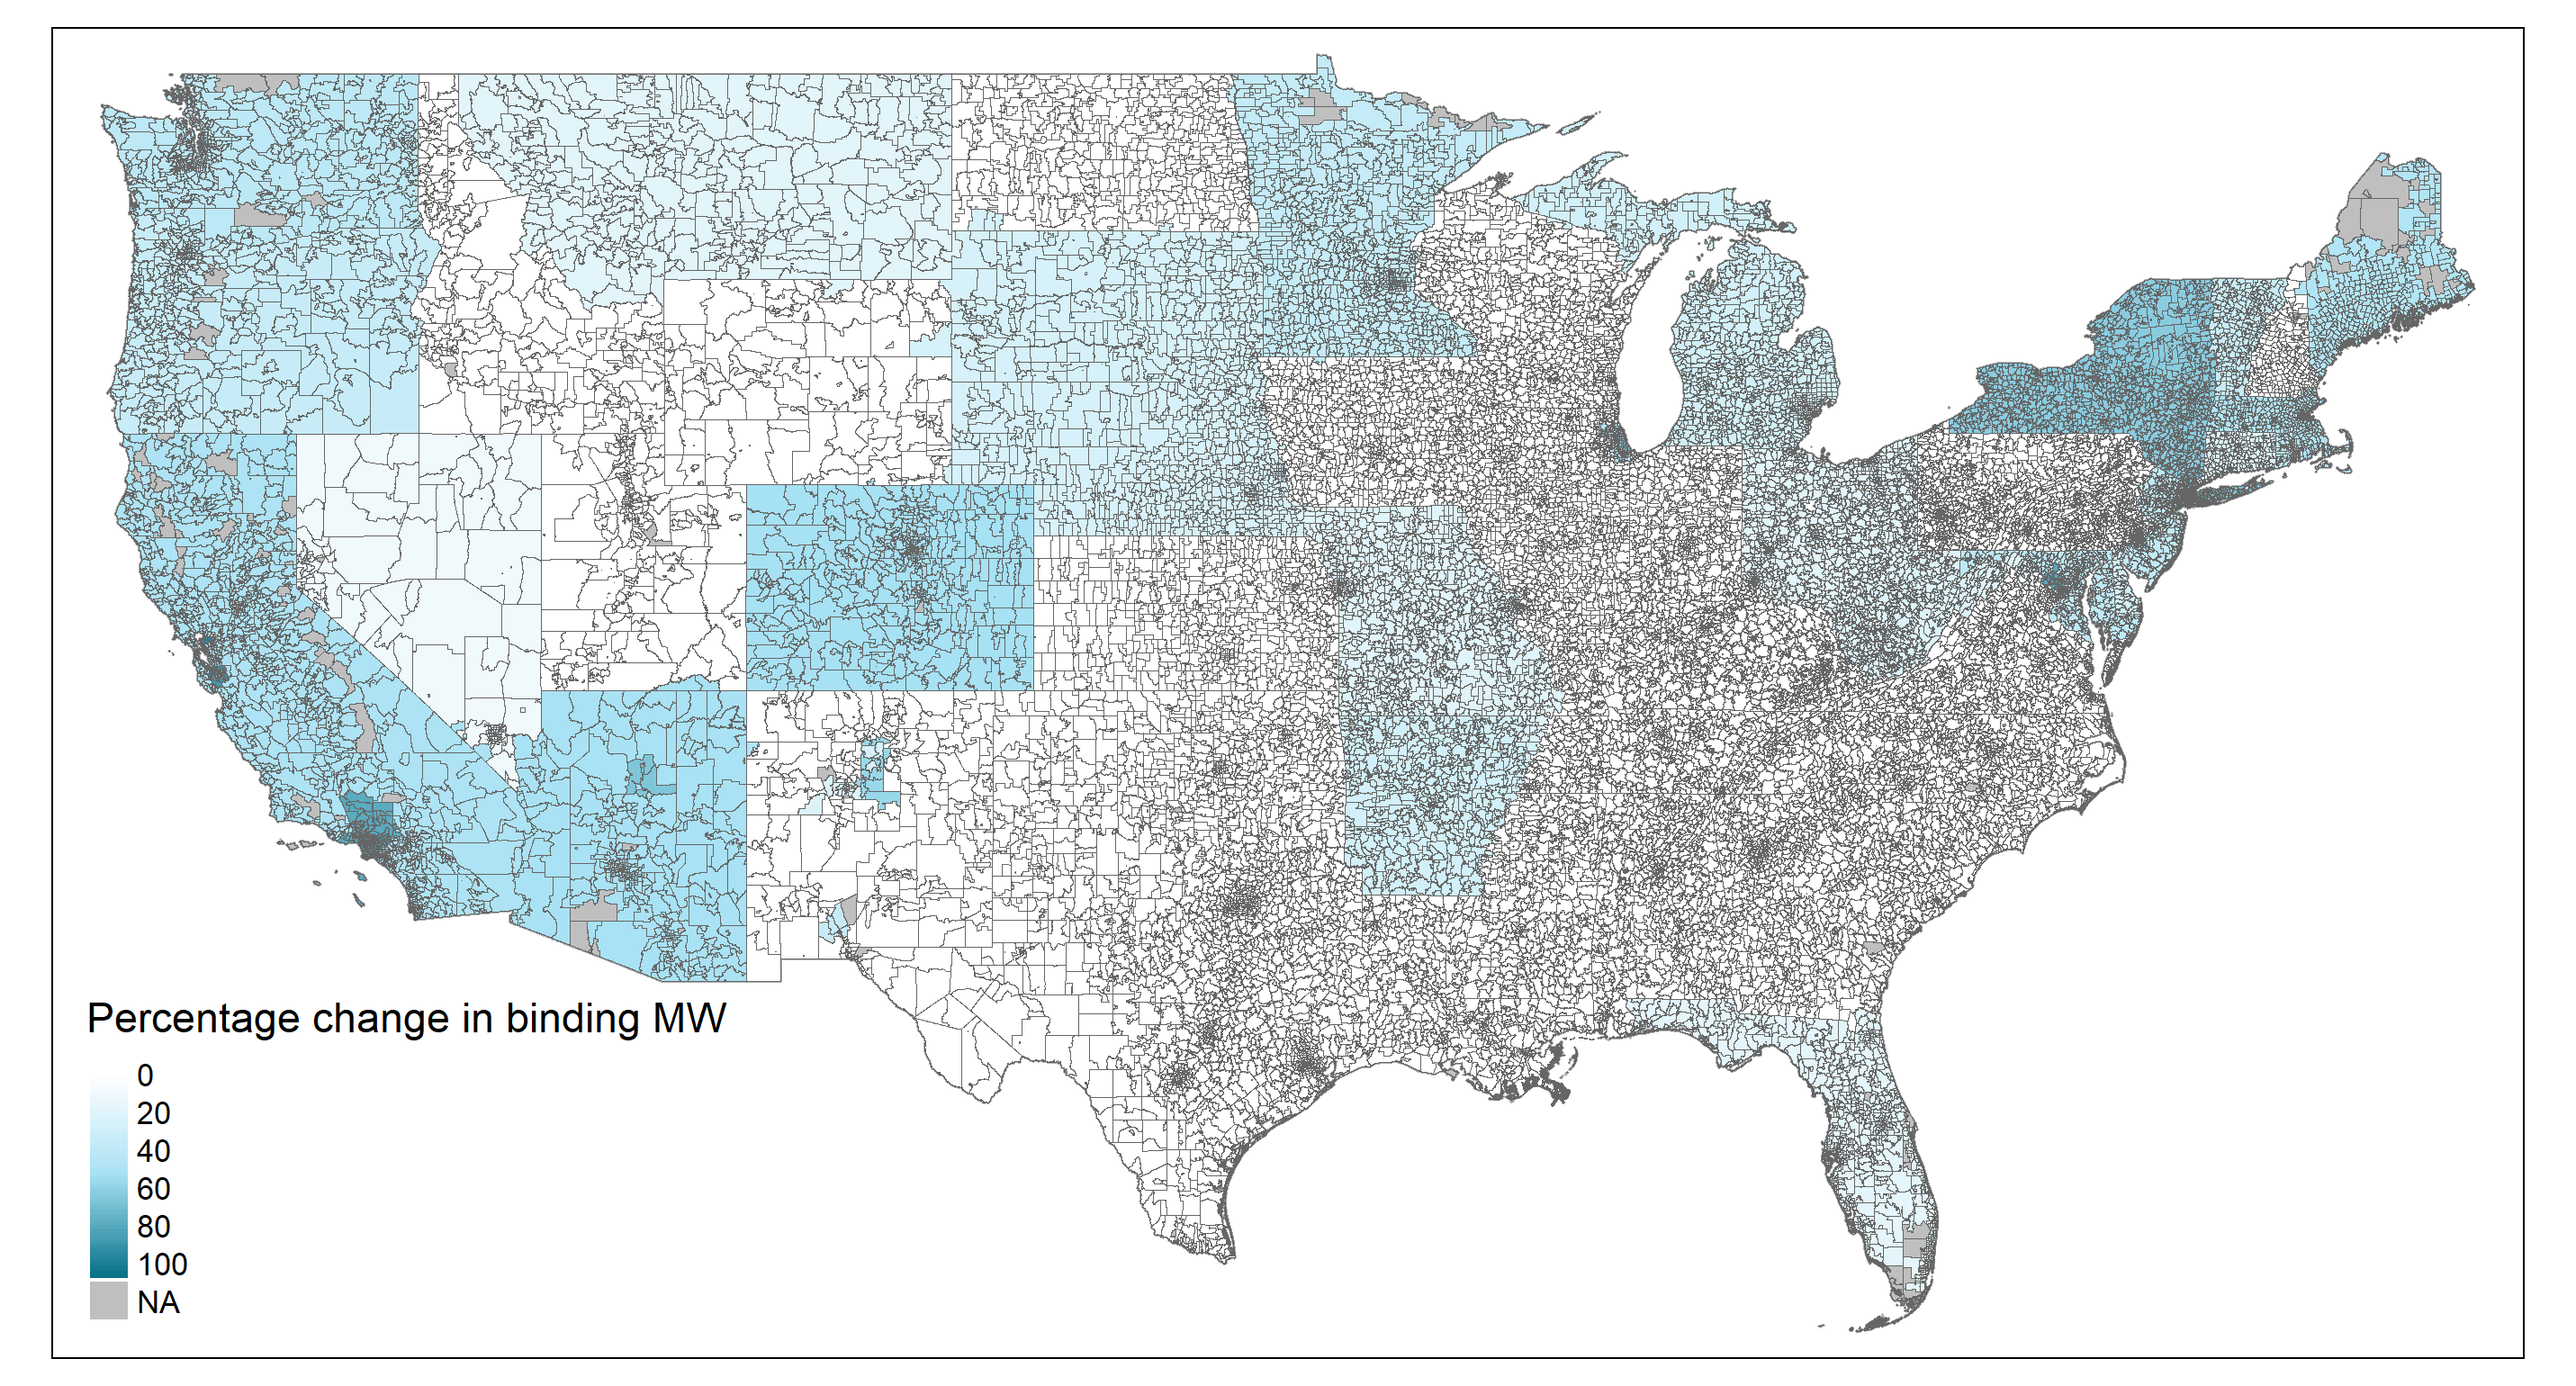
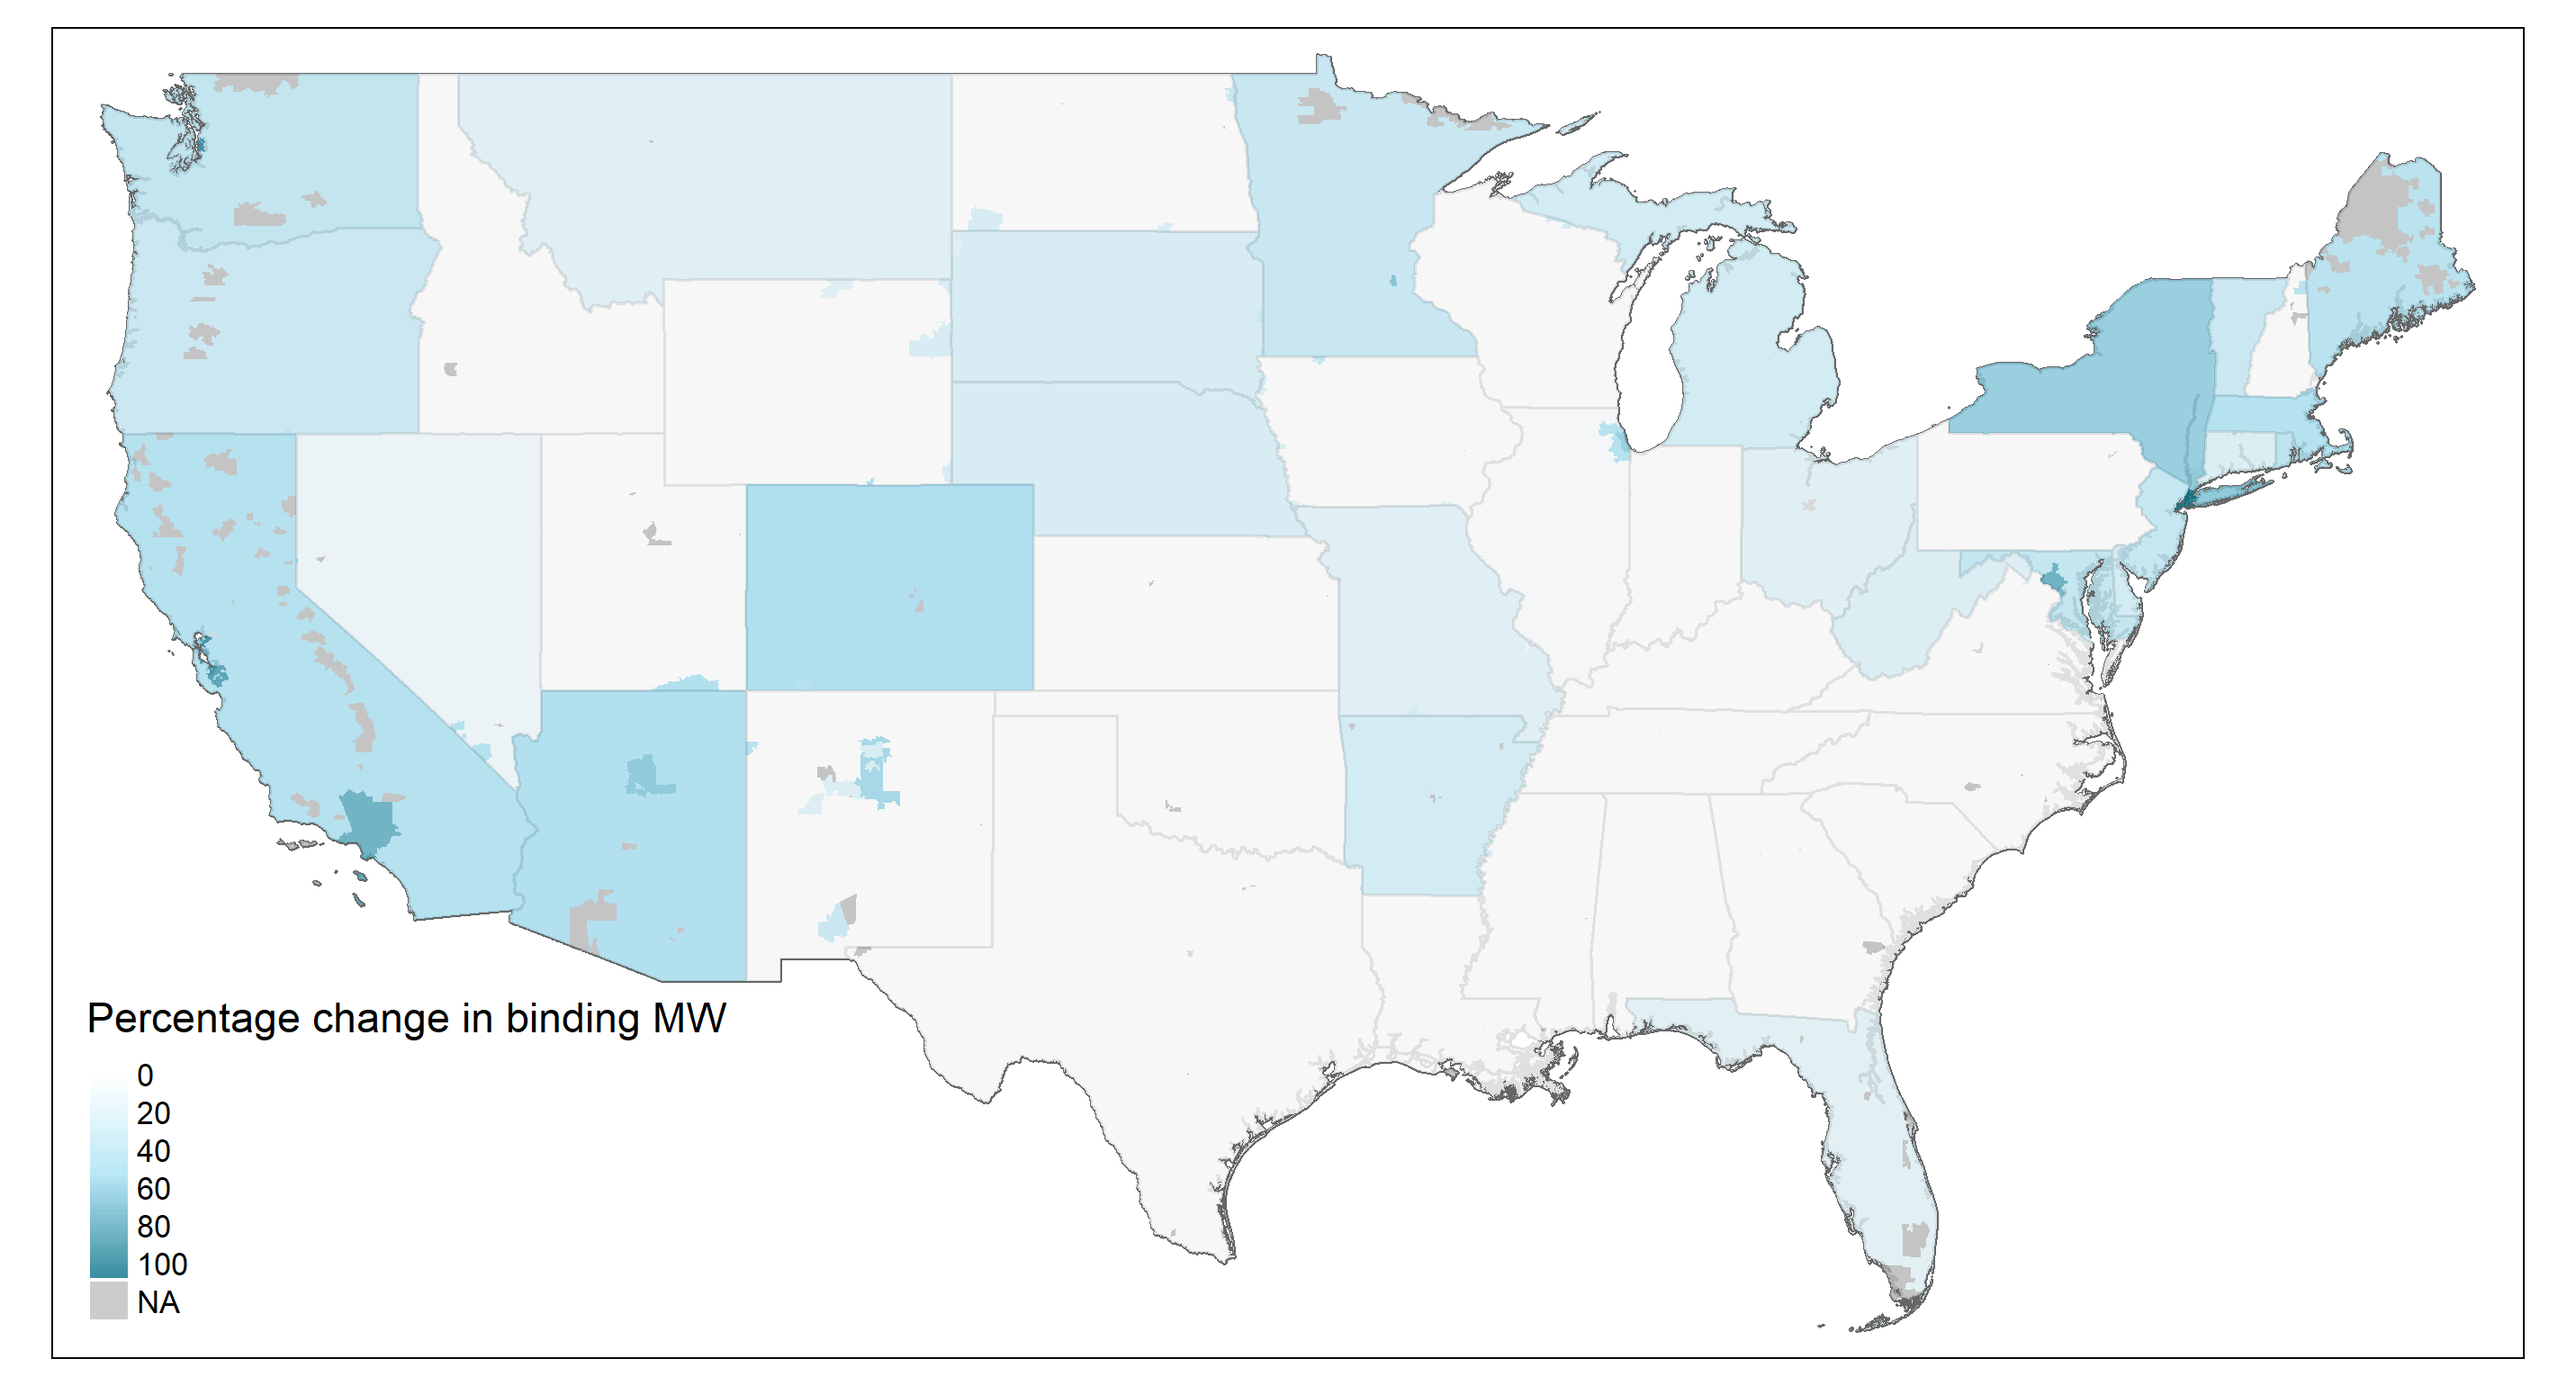
#115  Fix map MW long run, keep going with data_sample.tex

Changed region(s): [[0.0311, 0.0312, 0.964, 0.9351], [0.0311, 0.8416, 0.0622, 0.9351]]

diff --git a/paper_slides/paper/data_sample.tex b/paper_slides/paper/data_sample.tex
@@ -37,14 +37,14 @@ the maximum between the federal, state, county, and city statutory MWs.\footnote
 As a result, we only use MW changes that are binding, meaning that they actually impact 
 that maximum.
 
-When restricting to the sample of ZIP codes available in Zillow, our data reports 18,689 
-MW changes at the ZIP code-month level. These, in turn, arise from 151 state-level and 182 
-county and city-level changes. \autoref{fig:d_ln_mw_dist} shows the distribution of 
-positive increases in our statutory MW variable among all ZIP codes available in the 
-Zillow data.\footnote{There are a few cases of decrease in the MW arising from judicial 
-	decisions overthrowing local MW ordinances. For expository reasons, they are not shown 
-	in the figure. However, they are used in estimations throughout the paper.}
-% DGP: We should make sure this is the case.
+When restricting to the sample of ZIP codes available in Zillow, and to our sample period, 
+our data reports 18,689 MW changes at the ZIP code-month level. These, in turn, arise 
+from 151 state-level and 182 county and city-level changes. Figure \ref{fig:d_ln_mw_dist} 
+shows the distribution of positive increases in our statutory MW variable among all ZIP 
+codes available in the Zillow data.\footnote{There are a few cases of decrease in the 
+	MW arising from judicial decisions overthrowing local MW ordinances. For 
+	expository reasons, they are not shown in the figure. However, they are 
+	used in estimations throughout the paper.} %DGP: We should make sure this is the case.
 Panel (a) shows the distribution of the intensity of our MW changes. The average percent 
 change among Zillow ZIP codes is 5.5\%. %% From unbalanced panel in derived_large
 However, we observe a fair amount of large increases. Our baseline estimation strategy will
@@ -54,8 +54,12 @@ and the majority of them take place later in the panel. This could be problemati
 the timing of entry of ZIP codes into the panel is also concentrated in these months. We 
 construct a balanced sample of ZIP codes to tackle this issue.
 
+When focusing on the entire sample of US ZIP codes, MW changes have been heavily concentrated geographically. Figure \ref{fig:mw_perc_changes_long_run} shows the percentage change in the residential MW levels from January 2010 to December 2019. The largest MW changes happened
+along the West and Northeast regions, although there are substantial changes as well in the 
+Midwest.
+
 We construct an alternative measure to capture the effects of MW policies: the 
-\textit{experienced} MW. This measure aims to account for the fact that workplace location 
+\textit{workplace} MW. This measure aims to account for the fact that workplace location 
 often differs from the residence one. The MW that matters for a given local rental market 
 is the one experienced by the people living in it, and so by tracking where people in 
 each ZIP code work we can get a better sense of the relevant MW there.
@@ -67,9 +71,9 @@ come at the block group level. We aggregate that to construct a ZIP code residen
 matrix where we observe the number of workers for each residence-workplace pair.
 
 We then use the ZIP code residence-workplace matrix to build exposure weights. Denote 
-ZIP codes by $i$ and monthly dates by $t$. Let $\mathds{Z}_i$ be the set of ZIP codes in 
+ZIP codes by $i$ and monthly dates by $t$. Let $\Z_i$ be the set of ZIP codes in 
 which $i$'s residents work (including $i$). We construct the set of weights 
-$\{\omega_{iz}\}_{z \in \mathds{Z}_i}$ as $$\omega_{iz} = \frac{N_{iz}}{N_i} , $$ where 
+$\{\omega_{iz}\}_{z \in \Z_i}$ as $$\omega_{iz} = \frac{N_{iz}}{N_i} , $$ where 
 $N_{iz}$ is the number of workers who reside in ZIP code $i$ and work in $z$, and $N_i$ 
 is the total working-age population of ZIP code $i$.\footnote{The LODES data additionally 
 	reports origin-destination matrices for number of workers 29 years old and younger  
@@ -86,7 +90,7 @@ define the experienced minimum wage measure as
 
 \begin{equation}
 \underline{w}^{\text{exp}}_{it} = 
-\sum_{z \in \mathds{Z}_i} \omega_{iz} \underline{w}_{zt} \ . 
+\sum_{z \in \Z_i} \omega_{iz} \underline{w}_{zt} \ . 
 \end{equation}
 
 The experienced MW of a ZIP code is based on the MWs binding in other ZIP codes 

diff --git a/paper_slides/paper/figures.tex b/paper_slides/paper/figures.tex
@@ -22,3 +22,15 @@
     \end{minipage}
 \end{figure}
 
+\begin{figure}[h!]
+	\centering
+	\caption{Distribution of Minimum Wage Changes}
+	\label{fig:mw_perc_changes_long_run}
+	\includegraphics[width = \textwidth]
+	    {../../analysis/maps_mw_long_run/output/USchange_perc_actual_mw.png}
+	\begin{minipage}{.95\textwidth} \footnotesize
+		\vspace{3mm}
+		\textit{Notes:} This figure shows the percentage change in residence MW levels
+		at each US ZIP code from January 2010 to December 2019.
+	\end{minipage}
+\end{figure}
